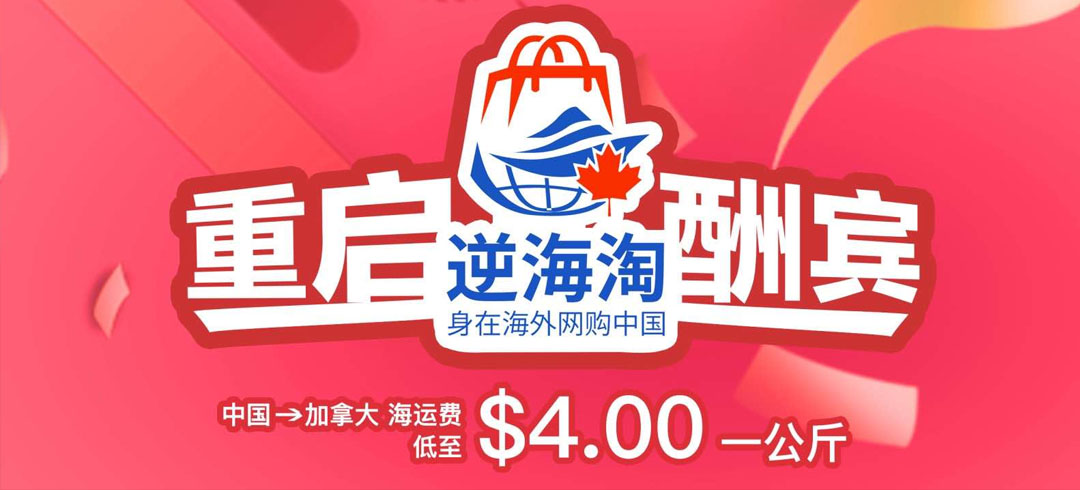
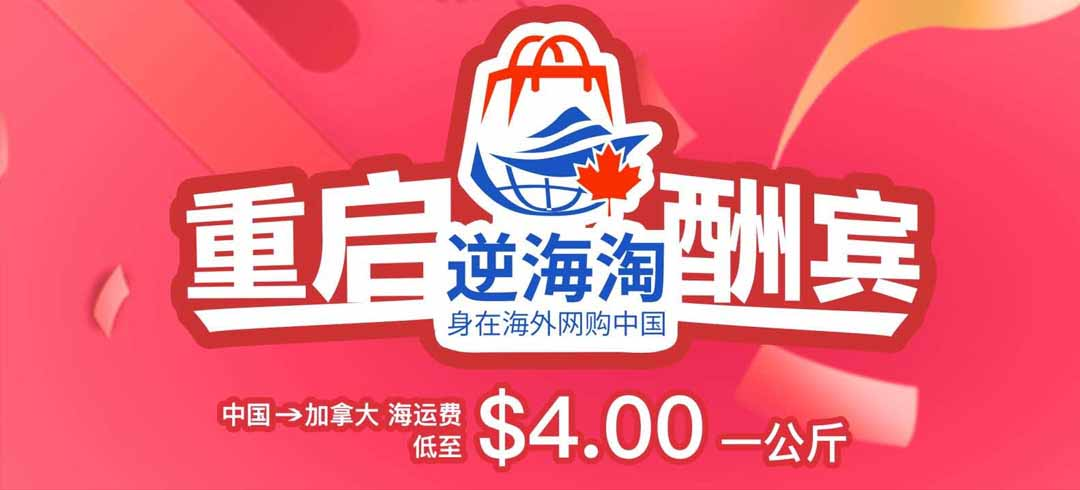
修改图片尺寸；调整仓库端按钮位置

diff --git a/components/my-create-order-button/my-create-order-button.vue b/components/my-create-order-button/my-create-order-button.vue
@@ -1,7 +1,7 @@
 <template>
     <view class="create-order-button-container" >
         <navigator class="panel-item" :url="'/subpkg/order_form/order_form'">
-         <view class="btn-claim">創建新的訂單</view>
+         <view class="btn-claim">创建新订单</view>
         </navigator>
         </view> 
     </view>
@@ -20,20 +20,20 @@
 
     .create-order-button-container {
         position: fixed;
-        bottom: 52px;
+        bottom: 85px;
         width: 100%;
-        height: 50px;
+        height: 100rpx;
         background-color: white;
 
 
 
         .btn-claim {
             background-color: #C00000;
-            height: 50px;
+            height: 100rpx;
             color: white;
-            line-height: 50px;
-            padding: 0 10px;
-            min-width: 100px;
+            line-height: 100rpx;
+            padding: 0 100rpx;
+            min-width: 100rpx;
             text-align: center;
         }
     }

diff --git a/components/my-create-cabinet-button/my-create-cabinet-button.vue b/components/my-create-cabinet-button/my-create-cabinet-button.vue
@@ -1,7 +1,7 @@
 <template>
     <view class="create-cabinet-button-container" >
         <navigator class="panel-item" :url="'/subpkg/cabinet_form/cabinet_form'">
-         <view class="btn-claim">新創建一個櫃子</view>
+         <view class="btn-claim">创建新柜子</view>
         </navigator>
         </view> 
     </view>
@@ -19,18 +19,18 @@
 <style lang="scss">
     .create-cabinet-button-container {
        position: fixed;
-       bottom: 52px;
+       bottom: 85px;
        width: 100%;
-       height: 50px;
+       height: 100rpx;
        background-color: white;
 
         .btn-claim {
             background-color: #C00000;
-            height: 50px;
+            height: 100rpx;
             color: white;
-            line-height: 50px;
+            line-height: 100rpx;
             padding: 0 10px;
-            min-width: 100px;
+            min-width: 100rpx;
             text-align: center;
         }
     }

diff --git a/components/my-create-box-button/my-create-box-button.vue b/components/my-create-box-button/my-create-box-button.vue
@@ -19,18 +19,18 @@
 <style lang="scss">
     .create-box-button-container {
         position: fixed;
-        bottom: 52px;
+        bottom: 85px;
         width: 100%;
-        height: 50px;
+        height: 100rpx;
         background-color: white;
 
         .btn-claim {
             background-color: #C00000;
-            height: 50px;
+            height: 100rpx;
             color: white;
-            line-height: 50px;
+            line-height: 100rpx;
             padding: 0 10px;
-            min-width: 100px;
+            min-width: 100rpx;
             text-align: center;
         }
     }

diff --git a/App.vue b/App.vue
@@ -51,13 +51,13 @@
 						],
 						
 						imageList: [{
-								"image_src": "/static/banner-01.jpg"
+								"image_src": "http://47.251.38.204/images/wx/banner-01.jpg"
 							},
 							{
-								"image_src": "/static/banner-02.jpg"
+								"image_src": "http://47.251.38.204/images/wx/banner-02.jpg"
 							},
 							{
-								"image_src": "/static/banner-03.jpg"
+								"image_src": "http://47.251.38.204/images/wx/banner-03.jpg"
 							},
 						],
 						

diff --git a/subpkg/info/support-qr/support-qr.vue b/subpkg/info/support-qr/support-qr.vue
@@ -4,7 +4,7 @@
 		<!-- list -->
 		<view class="panel-list">
 			<view class="panel">
-				<image src="/static/weixin_csr_bi.jpg" class="qr-image"></image>
+				<image src="http://47.251.38.204/images/wx/weixin_csr_bi.jpg" class="qr-image"></image>
 				<view class="info-text">
 					<rich-text :nodes="strings" ></rich-text>
 				</view>

diff --git a/components/my-information/my-information.vue b/components/my-information/my-information.vue
@@ -1,7 +1,7 @@
 <template>
 	<view class="my-information-container">
 		<!-- 通知区域 -->
-		<image src="/static/information-notice.jpg" class="notice-image"></image>
+		<image src="http://47.251.38.204/images/wx/information-notice.jpg" class="notice-image"></image>
 
 		<!-- list -->
 		<view class="panel-list">
